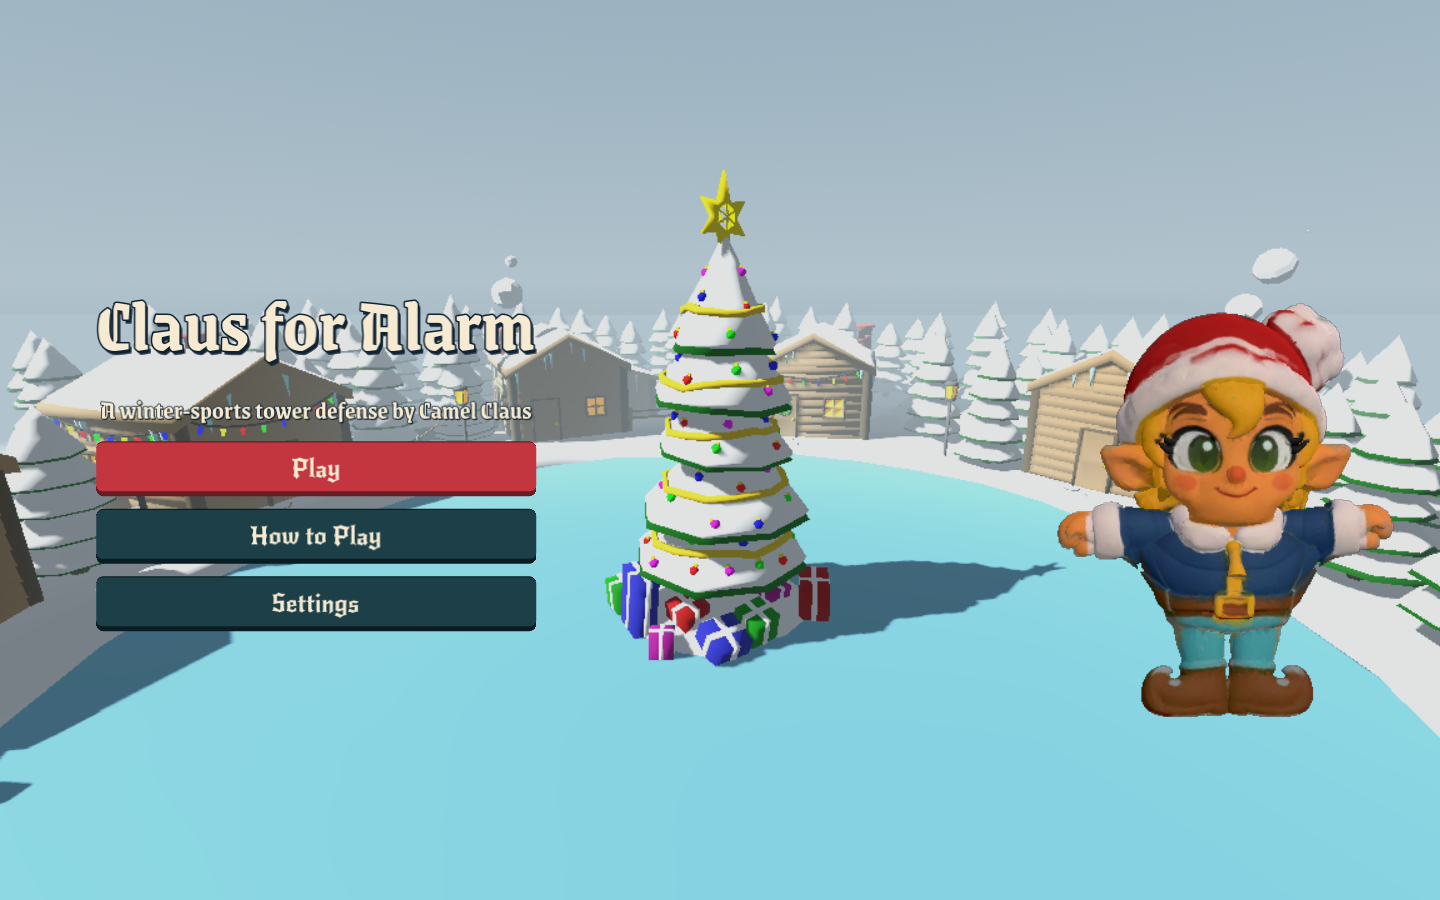
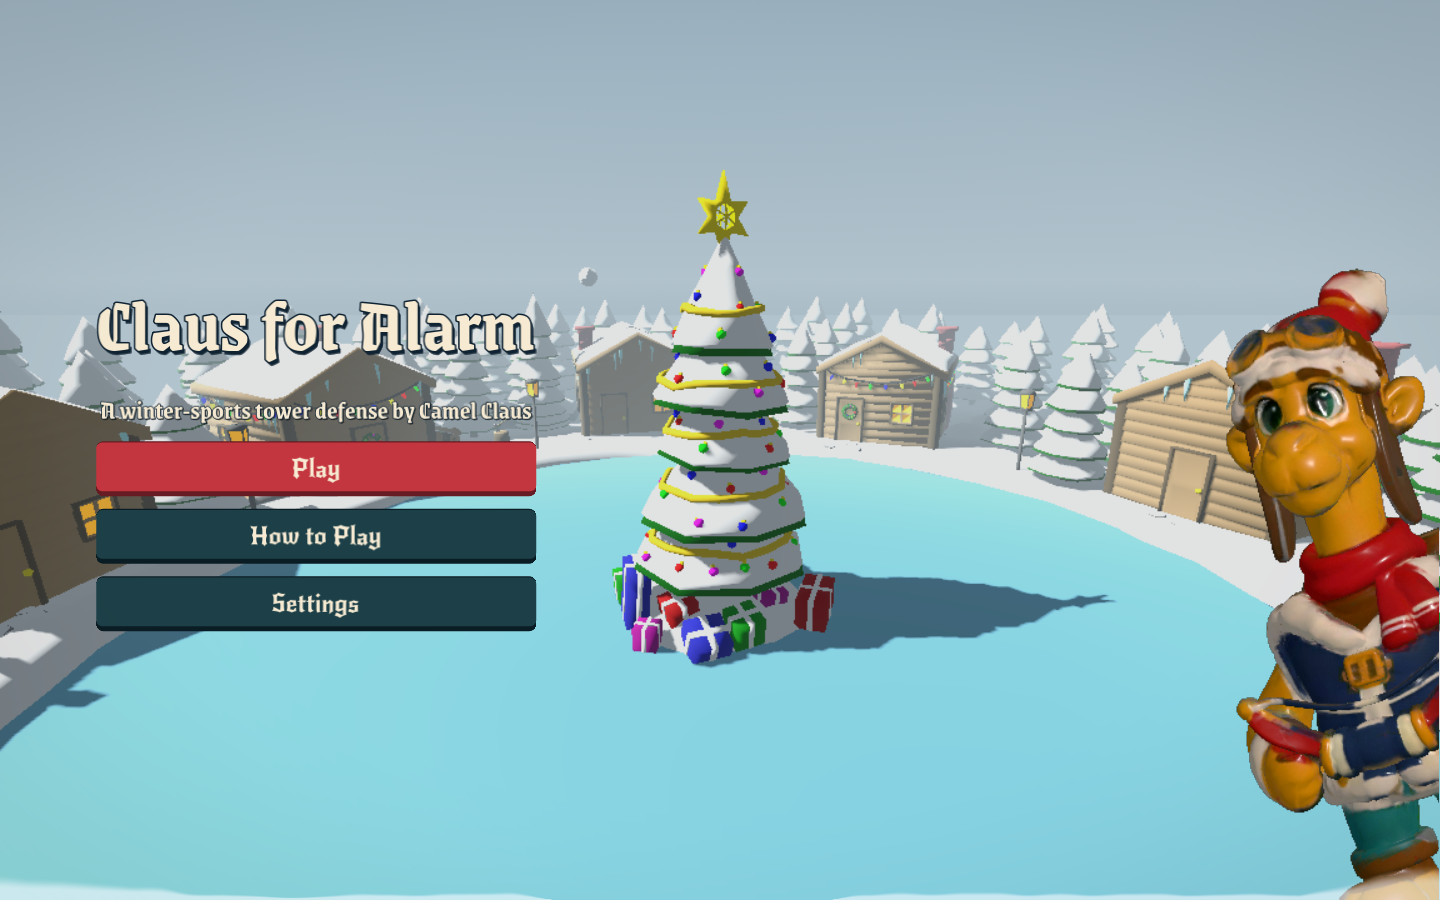
Website: camel title-screen capture and alt text; itch.io cover image 630x500

diff --git a/website/index.html b/website/index.html
@@ -83,7 +83,7 @@
               src="img/menu.png"
               width="1440"
               height="900"
-              alt="The actual main menu: a Christmas tree and snowy village with the Rookie elf beside the Play button."
+              alt="The actual main menu: a Christmas tree and snowy village, with Camel Claus leaning in from the right beside the Play button."
               fetchpriority="high"
           /></a>
           <figcaption>
@@ -298,7 +298,7 @@
                 src="img/menu.png"
                 width="1440"
                 height="900"
-                alt="The festive 3D village main menu and Rookie character."
+                alt="The festive 3D village main menu with Camel Claus peeking in."
                 loading="lazy"
             /></a>
             <figcaption>

diff --git a/docs/logs/SESSION_LOG.md b/docs/logs/SESSION_LOG.md
@@ -745,3 +745,8 @@ Append one entry per session (template: master plan §12.2). Evidence files go i
 - **Owner requests:** quicker, more wafty spiral gusts; remove character pixelation (HUD portraits + title elf); show Camel Claus leaning in from the right on the title screen instead of the Rookie.
 - **Done:** `portrait_pixel.gdshader` deleted and unused; menu showcase full resolution; gust 2.8 s / 38 m, meandering bobbing path with trailing curl (`gust_sway/waves/phase`). `rookie_showcase.gd` loads `camel_claus.glb`, scale 2, edge-cropped lean + bob/peek; `title_screen.tscn` showcase anchors 0.7/0.1 → 1/1 (MCP). `test_menu_background` expectation updated.
 - **Validation:** test_menu_background, test_ui, test_ambient_snow, test_match (+ test_screen_finish, test_playfeel, test_full_run for DEC-052) PASS; MCP runs 0 errors; Web export clean, Chrome menu + match 0 console errors (`dec053_web_menu_camel.png`). ZIP `build/archive/claus_for_alarm_final_web_deb4aa6.zip`. Website `img/menu.png` still shows the Rookie menu.
+
+#### SESSION 2026-11-15 08:55 — Opus 5.5 — final website refresh + itch cover
+- Website `img/menu.png` replaced with a 1440x900 Chrome capture of the final camel title screen (build `deb4aa6`); two alt texts updated from "Rookie elf" to Camel Claus. Published to `gh-pages`.
+- itch cover `docs/itch/cover_630x500.png` (+ 1260x1000 source) captured from the same build at a 1260x1000 window. Chrome 0 console errors.
+- Final upload: `build/archive/claus_for_alarm_final_web_deb4aa6.zip` (game code unchanged since `deb4aa6`).

diff --git a/docs/PUBLISHING.md b/docs/PUBLISHING.md
@@ -5,6 +5,7 @@ Every verified milestone leaves an upload-ready ZIP in `build/archive/` (git-ign
 (no SharedArrayBuffer / COOP-COEP needed).
 
 **Latest candidate (final, 2026-11-15 08:45): `build/archive/claus_for_alarm_final_web_deb4aa6.zip`** (adds DEC-052 no pixelation + wafting gusts, DEC-053 camel menu; Chrome 0 console errors). Superseded: `claus_for_alarm_final_web_b36c973.zip` (36,712,224
+itch.io cover image (630x500, the recommended size): `docs/itch/cover_630x500.png` (2x source `docs/itch/cover_1260x1000.png`), a browser capture of the final title screen.
 bytes): everything on `main` at `b36c973` — fonts, vignette/powder finish (DEC-050), Ticket Booth tickets, ambient
 snow + gusts (DEC-051). Release export 0 ERROR/WARNING; Chrome match smoke 0 console errors (`p17t07_web_snowfall.png`).
 Not yet uploaded to itch.io by this session.
